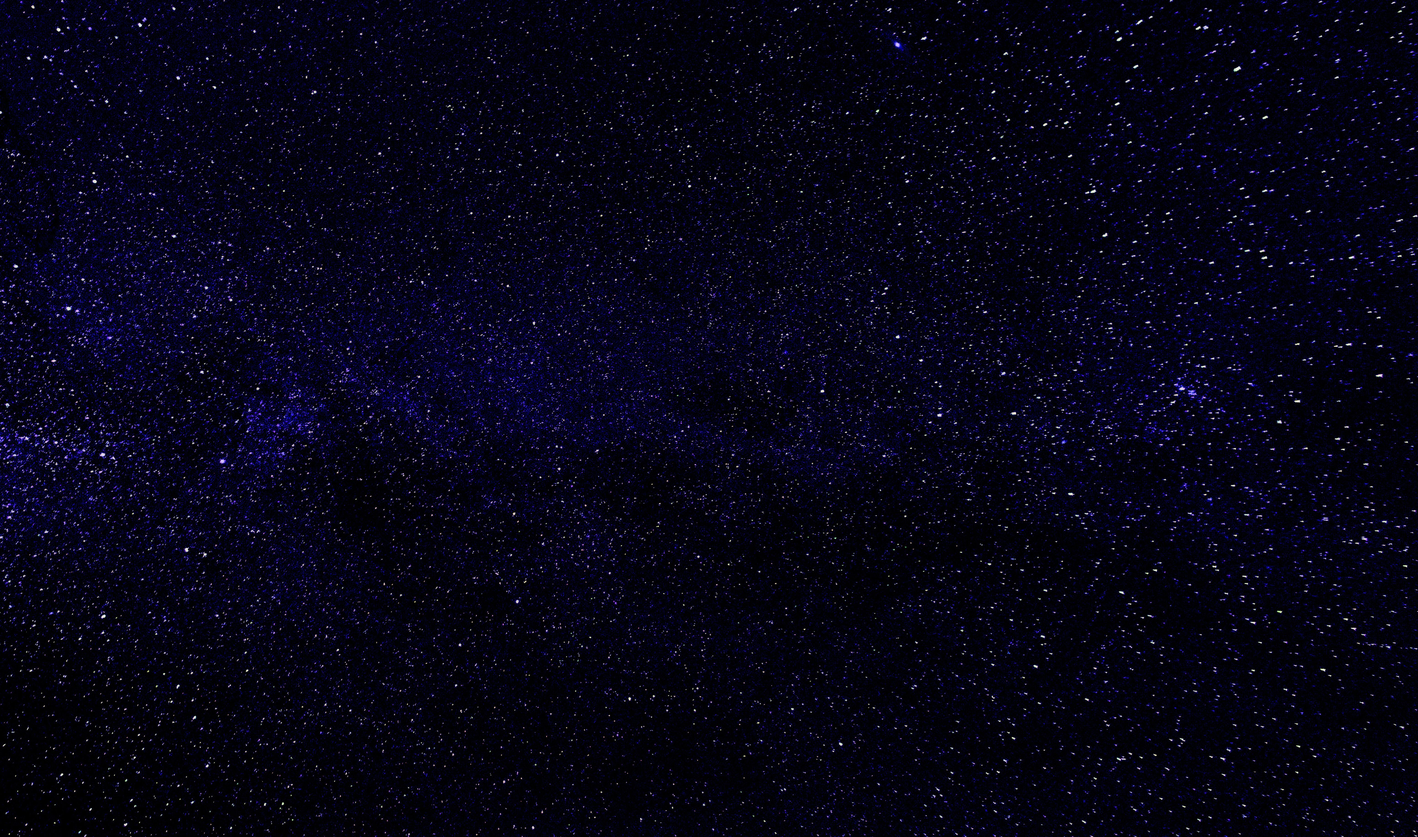
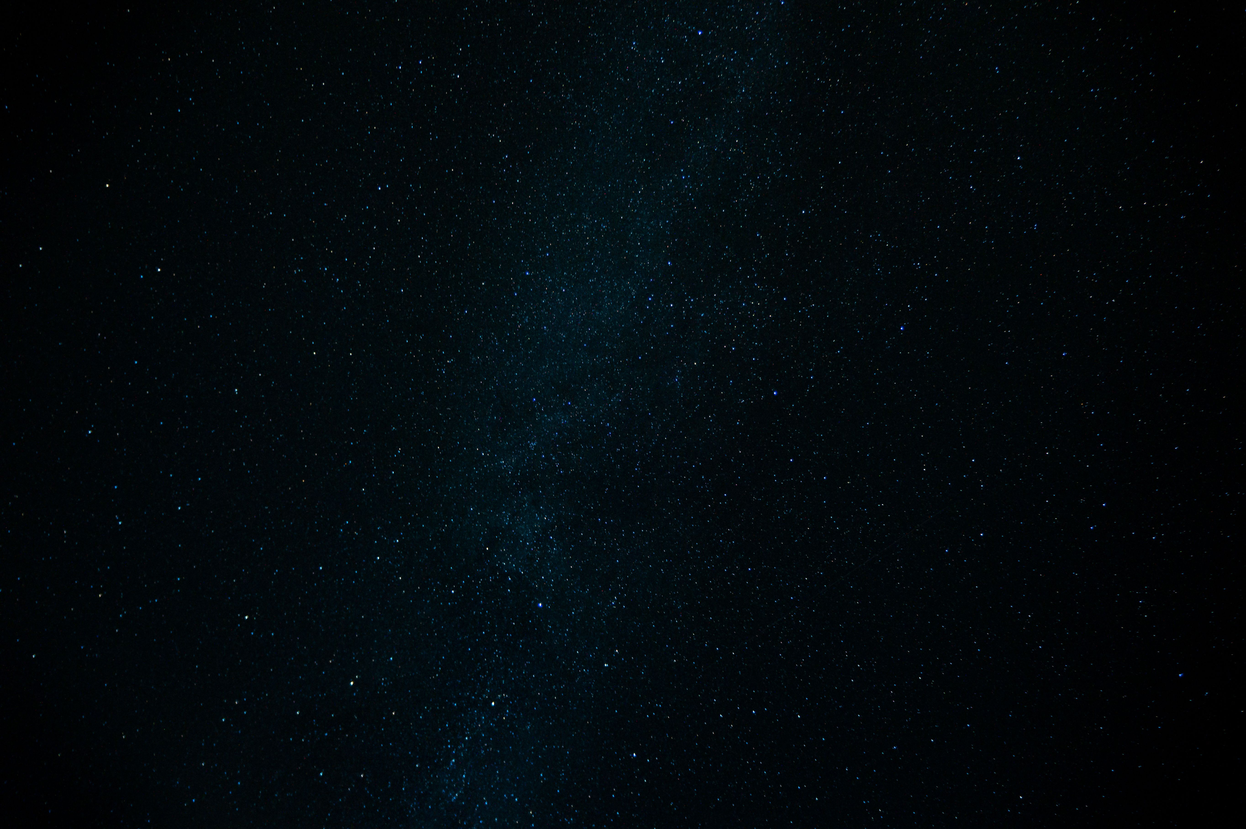
feat: add fight screen

diff --git a/css/health.css b/css/health.css
@@ -1,20 +1,32 @@
-.container {
-  margin: 80px auto;
-  padding: 25px 10px 20px 50px;
+.health {
+  width: 100%;
+}
+
+.health__bar {
+  margin: 0 auto;
+  width: 100%;
+  margin-bottom: 20px;
+}
+
+.health__bar-container {
+  display: flex;
+  justify-content: space-between;
+  align-items: center;
+  background: #000;
+  padding: 5px 5px 10px 5px;
   width: 100%;
   height: 40px;
   text-align: center;
-  border: 4px ridge rgba(180, 227, 145, 1);
+  border: 4px ridge #19f6c7;
   border-radius: 50px;
   box-shadow: 0px 0px 3px 2px black;
+  position: relative;
 }
 
-.sphere {
-  height: 2em;
-  width: 2em;
+.health__sphere {
+  height: 12px;
+  width: 12px;
   border-radius: 50%;
-  float: left;
-  margin-right: 31px;
   z-index: 20 !important;
   position: relative;
   -webkit-transform: scale(0.3);
@@ -22,55 +34,40 @@
   background: -webkit-radial-gradient(
     10% 10%,
     ellipse cover,
-    rgba(180, 227, 145, 1) 0%,
-    rgba(97, 196, 25, 1) 50%,
-    rgba(180, 227, 145, 1) 100%
+    #19f6c7 0%,
+    #c90677 50%,
+    #19f6c7 100%
   ); /* Chrome10+, Safari5.1+ */
   background: -moz-radial-gradient(
     10% 10%,
     ellipse cover,
-    rgba(180, 227, 145, 1) 0%,
-    rgba(97, 196, 25, 1) 50%,
-    rgba(180, 227, 145, 1) 100%
+    #19f6c7 0%,
+    #c90677 50%,
+    #19f6c7 100%
   ); /* FF3.6+ */
   background: -o-radial-gradient(
     10% 10%,
     ellipse cover,
-    rgba(180, 227, 145, 1) 0%,
-    rgba(97, 196, 25, 1) 50%,
-    rgba(180, 227, 145, 1) 100%
+    #19f6c7 0%,
+    #c90677 50%,
+    #19f6c7 100%
   ); /* Opera 12+ */
   background: -ms-radial-gradient(
     10% 10%,
     ellipse cover,
-    rgba(180, 227, 145, 1) 0%,
-    rgba(97, 196, 25, 1) 50%,
-    rgba(180, 227, 145, 1) 100%
+    #19f6c7 0%,
+    #c90677 50%,
+    #19f6c7 100%
   ); /* IE10+ */
   background: radial-gradient(
     ellipse at center,
-    rgba(180, 227, 145, 1) 0%,
-    rgba(97, 196, 25, 1) 50%,
-    rgba(180, 227, 145, 1) 100%
-  ); /* W3C */
+    #19f6c7 0%,
+    #c90677 50%,
+    #19f6c7 100%
+  );
 }
 
-.shadow {
-  position: relative;
-  top: -6.9em;
-  width: 2em;
-  left: 54px;
-  height: 0.5em;
-  box-shadow: 0px 0px 25px -0.5px rgba(255, 255, 255, 1);
-  border-radius: 50%;
-  float: left;
-  margin-right: 31px;
-  -webkit-transform: scale(0.3);
-  opacity: 0;
-}
-
-.sphere:before {
-  /*sourced from hop.ie/blog/balls*/
+.health__sphere:before {
   content: '';
   position: absolute;
   top: 1%;
@@ -87,13 +84,31 @@
   z-index: 2;
 }
 
-#wrap {
-  margin: 0 auto;
-  width: 640px;
+.health__effect {
+  position: absolute;
+  bottom: 0;
+  left: 0;
+  display: flex;
+  justify-content: space-between;
+  align-items: center;
+  padding: 0 5px;
+  width: 100%;
+  height: 20px;
+  text-align: center;
 }
 
-.clear {
-  clear: both;
+.health__shadow {
+  width: 12px;
+  height: 12px;
+  box-shadow: 0px 0px 25px -0.5px rgba(255, 255, 255, 1);
+  border-radius: 50%;
+  -webkit-transform: scale(0.3);
+  opacity: 0;
+}
+
+.health__value {
+  text-align: center;
+  font-size: 24px;
 }
 
 #shadow1 {

diff --git a/index.html b/index.html
@@ -62,43 +62,9 @@
         Create Character
       </button>
       <div class="fight-screen" id="fight-screen">
-        <!-- <h2 class="popup__title">
-          Please pick 1 Attack zone and 2 Defence zones
-        </h2> -->
-        <!-- <div class="fight">
-          <div class="hero">
-            <h3 class="hero__name" id="hero"></h3>
-            <div class="hero__image"></div>
-            <div class="hero__health"></div>
-            <div id="wrap">
-              <div class="container" id="progess">
-                <div class="sphere" id="sphere1"></div>
-                <div class="sphere" id="sphere2"></div>
-                <div class="sphere" id="sphere3"></div>
-                <div class="sphere" id="sphere4"></div>
-                <div class="sphere" id="sphere5"></div>
-                <div class="sphere" id="sphere6"></div>
-                <div class="sphere" id="sphere7"></div>
-                <div class="sphere" id="sphere8"></div>
-                <div class="sphere" id="sphere9"></div>
-                <div class="sphere" id="sphere10"></div>
-
-                <div class="clear"></div>
-              </div>
-              <div class="shadow" id="shadow1"></div>
-              <div class="shadow" id="shadow2"></div>
-              <div class="shadow" id="shadow3"></div>
-              <div class="shadow" id="shadow4"></div>
-              <div class="shadow" id="shadow5"></div>
-              <div class="shadow" id="shadow6"></div>
-              <div class="shadow" id="shadow7"></div>
-              <div class="shadow" id="shadow8"></div>
-              <div class="shadow" id="shadow9"></div>
-              <div class="shadow" id="shadow10"></div>
-            </div>
-            <div class="hero__health-value">100%</div>
-          </div>
-        </div> -->
+        <div class="fight__zone">
+          <h2 class="popup__title">Pick 1 Attack zone and 2 Defence zones</h2>
+        </div>
       </div>
     </main>
     <div class="popup" id="popup">

diff --git a/script/utils/createFighter.js b/script/utils/createFighter.js
@@ -1,8 +1,38 @@
 export default function createFighter(fighter) {
+  console.log('fighter', fighter);
   return `
     <div class="fighter" id="${fighter.name}-${fighter.id}">
       <h3 class="fighter__name">${fighter.name}</h3>
       <img class="fighter__img" src="./assets/aliens/${fighter.id}.png" alt="" class="fighter__img">
+      <div class="health" id="health-${fighter.name}-${fighter.id}">
+        <div class="health__bar">
+          <div class="health__bar-container" id="progess">
+            <div class="health__sphere" id="sphere1"></div>
+            <div class="health__sphere" id="sphere2"></div>
+            <div class="health__sphere" id="sphere3"></div>
+            <div class="health__sphere" id="sphere4"></div>
+            <div class="health__sphere" id="sphere5"></div>
+            <div class="health__sphere" id="sphere6"></div>
+            <div class="health__sphere" id="sphere7"></div>
+            <div class="health__sphere" id="sphere8"></div>
+            <div class="health__sphere" id="sphere9"></div>
+            <div class="health__sphere" id="sphere10"></div>
+            <div class="health__effect">
+              <div class="health__shadow" id="shadow1"></div>
+                <div class="health__shadow" id="shadow2"></div>
+                <div class="health__shadow" id="shadow3"></div>
+                <div class="health__shadow" id="shadow4"></div>
+                <div class="health__shadow" id="shadow5"></div>
+                <div class="health__shadow" id="shadow6"></div>
+                <div class="health__shadow" id="shadow7"></div>
+                <div class="health__shadow" id="shadow8"></div>
+                <div class="health__shadow" id="shadow9"></div>
+                <div class="health__shadow" id="shadow10"></div>
+            </div>
+          </div>
+        </div>
+        <div class="health__value">100%</div>
+      </div>
     </div>
   `;
 }

diff --git a/script/fightScreen.js b/script/fightScreen.js
@@ -1,9 +1,14 @@
 import { character, opponent } from './state.js';
 import createFighter from './utils/createFighter.js';
+import createOpponent from './utils/createOpponent.js';
 
 export default function fightScreen() {
   const hero = createFighter(character);
+  createOpponent();
   const enemy = createFighter(opponent);
+
+  document.body.classList.add('body_fight');
+  document.getElementById('video-bg').classList.add('video_hidden');
 
   const fightScreenEl = document.getElementById('fight-screen');
   fightScreenEl.classList.add('fight-screen_active');

diff --git a/css/fight-screen.css b/css/fight-screen.css
@@ -19,6 +19,29 @@
   }
 }
 
+.fighter {
+  flex: 1 0 300px;
+  max-width: 300px;
+  min-width: 150px;
+  display: flex;
+  flex-direction: column;
+  align-items: center;
+  gap: 10px;
+}
+
 .fighter__img {
   height: 300px;
+}
+
+.fighter__name {
+  background: -webkit-linear-gradient(#19f6c7, #c90677);
+  -webkit-background-clip: text;
+  -webkit-text-fill-color: transparent;
+  font-family: 'Press Start 2P', system-ui;
+  font-size: 20px;
+  text-align: center;
+}
+
+.fight__zone {
+  max-width: 300px;
 }

diff --git a/css/base.css b/css/base.css
@@ -15,11 +15,16 @@ body {
   min-height: 100vh;
   display: flex;
   flex-direction: column;
+  color: #fff;
   font-family: 'Orbitron', sans-serif;
   font-size: 18px;
   font-style: normal;
   background: url(../assets/body-bg.png);
   position: relative;
+}
+
+.body_fight {
+  background: url(../assets/fight-bg.jpg);
 }
 
 .video {
@@ -30,6 +35,10 @@ body {
   left: 0;
   object-fit: cover;
   z-index: -1;
+}
+
+.video_hidden {
+  display: none;
 }
 
 .transparent {

diff --git a/css/list.css b/css/list.css
@@ -15,7 +15,11 @@
 }
 
 .list__item_fade {
-  filter: blur(2px);
+  filter: brightness(0.4);
+}
+
+.list__item_fade:hover {
+  filter: brightness(1.2);
 }
 
 .list__item_vertical {
@@ -68,15 +72,6 @@
   0% {
     transform: rotateY(0deg);
   }
-  /* 25% {
-    transform: rotateY(-50deg);
-  }
-  50% {
-    transform: rotateY(0deg);
-  }
-  75% {
-    transform: rotateY(50deg);
-  } */
   100% {
     transform: rotateY(-50deg);
   }

diff --git a/script/popup.js b/script/popup.js
@@ -8,8 +8,7 @@ export default function popup(tab) {
     if (e.target.classList.contains('btn_next')) {
       const tabs = popup.querySelectorAll('.popup__tab');
       tabs.forEach((t) => t.classList.remove('popup__tab_active'));
-      console.log('current tab', tab.index);
-      console.log('character', character);
+
       if (tab.index <= 3) {
         tab.index += 1;
         const currentTab = tabs[tab.index];

diff --git a/script/locationsPopup.js b/script/locationsPopup.js
@@ -38,7 +38,6 @@ export default function locationsPopup() {
   const locationsEl = document.getElementById('locations-popup');
   locationsEl.addEventListener('click', function (e) {
     if (e.target.closest('#submit-game')) {
-      console.log(character);
       characterView();
     }
   });

diff --git a/script/createCharacter.js b/script/createCharacter.js
@@ -8,7 +8,6 @@ export default function createCharacter() {
     if (name) {
       character.name = name;
       document.getElementById('choose-name-btn').disabled = false;
-      console.log(document.getElementById('choose-name-btn'));
     }
   });
 }

diff --git a/css/locations.css b/css/locations.css
@@ -35,16 +35,7 @@
   margin-bottom: 30px;
 }
 
-.locations__list {
-}
-
-.locations__img:hover {
-  transform: scale(1.5);
-}
-
-.locations__img {
-}
-
 .locations__item:hover .locations__img {
   transform: scale(1.2);
+  filter: brightness(1.2);
 }

diff --git a/script/chooseCharacter.js b/script/chooseCharacter.js
@@ -23,7 +23,6 @@ export default function chooseCharacter() {
       if (character.id) {
         document.getElementById('choose-character-btn').disabled = false;
       }
-      console.log('character id', character);
     }
   });
 
